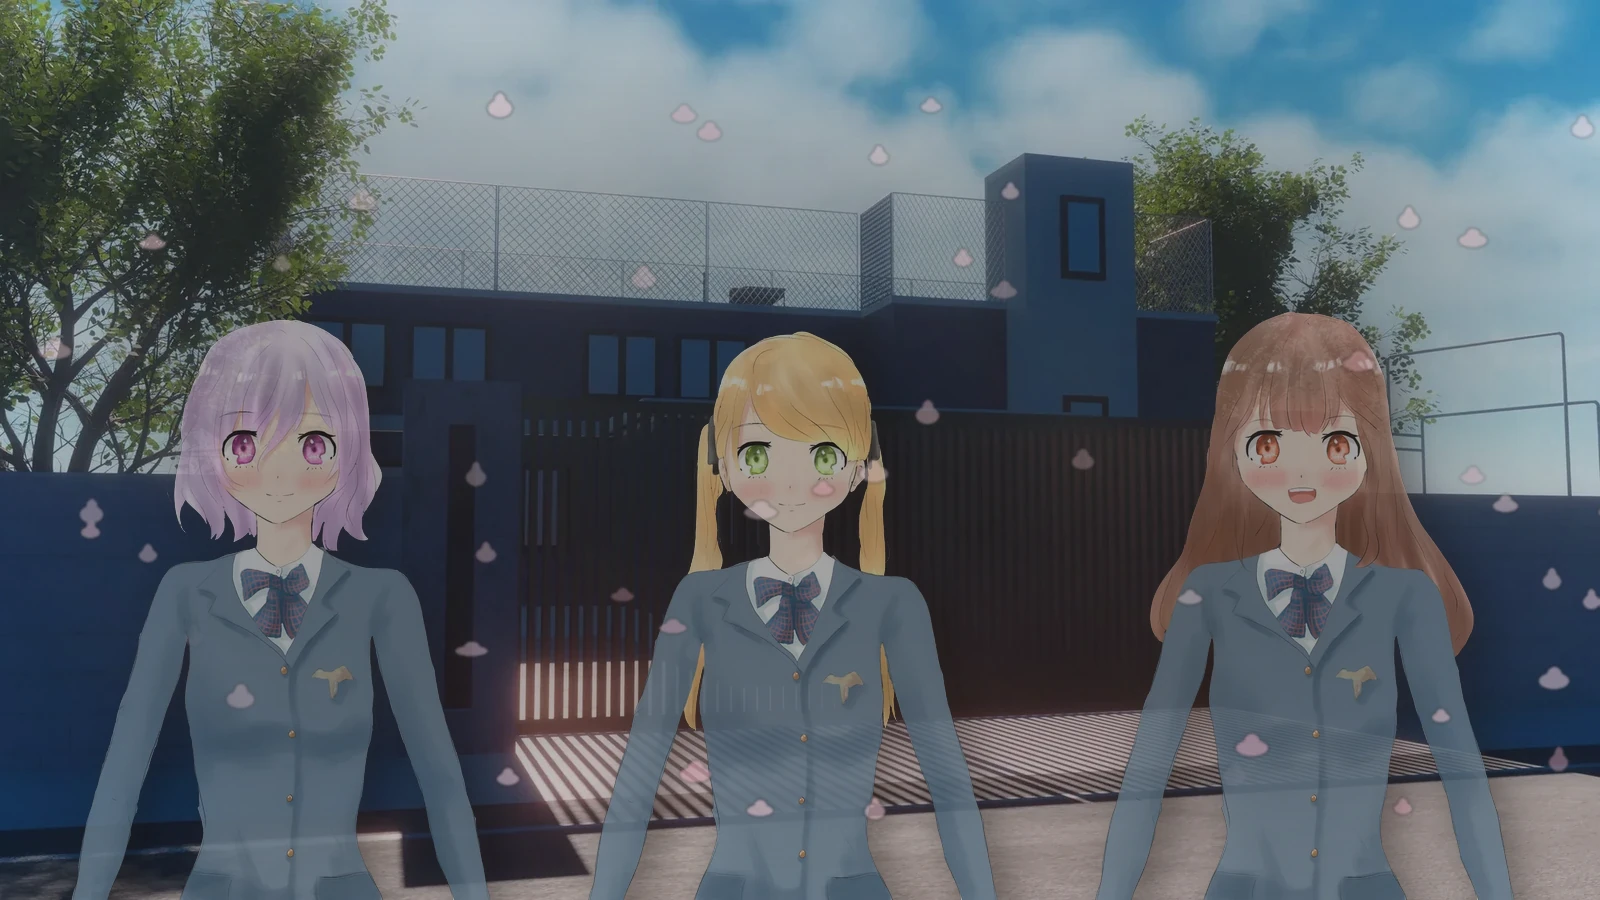
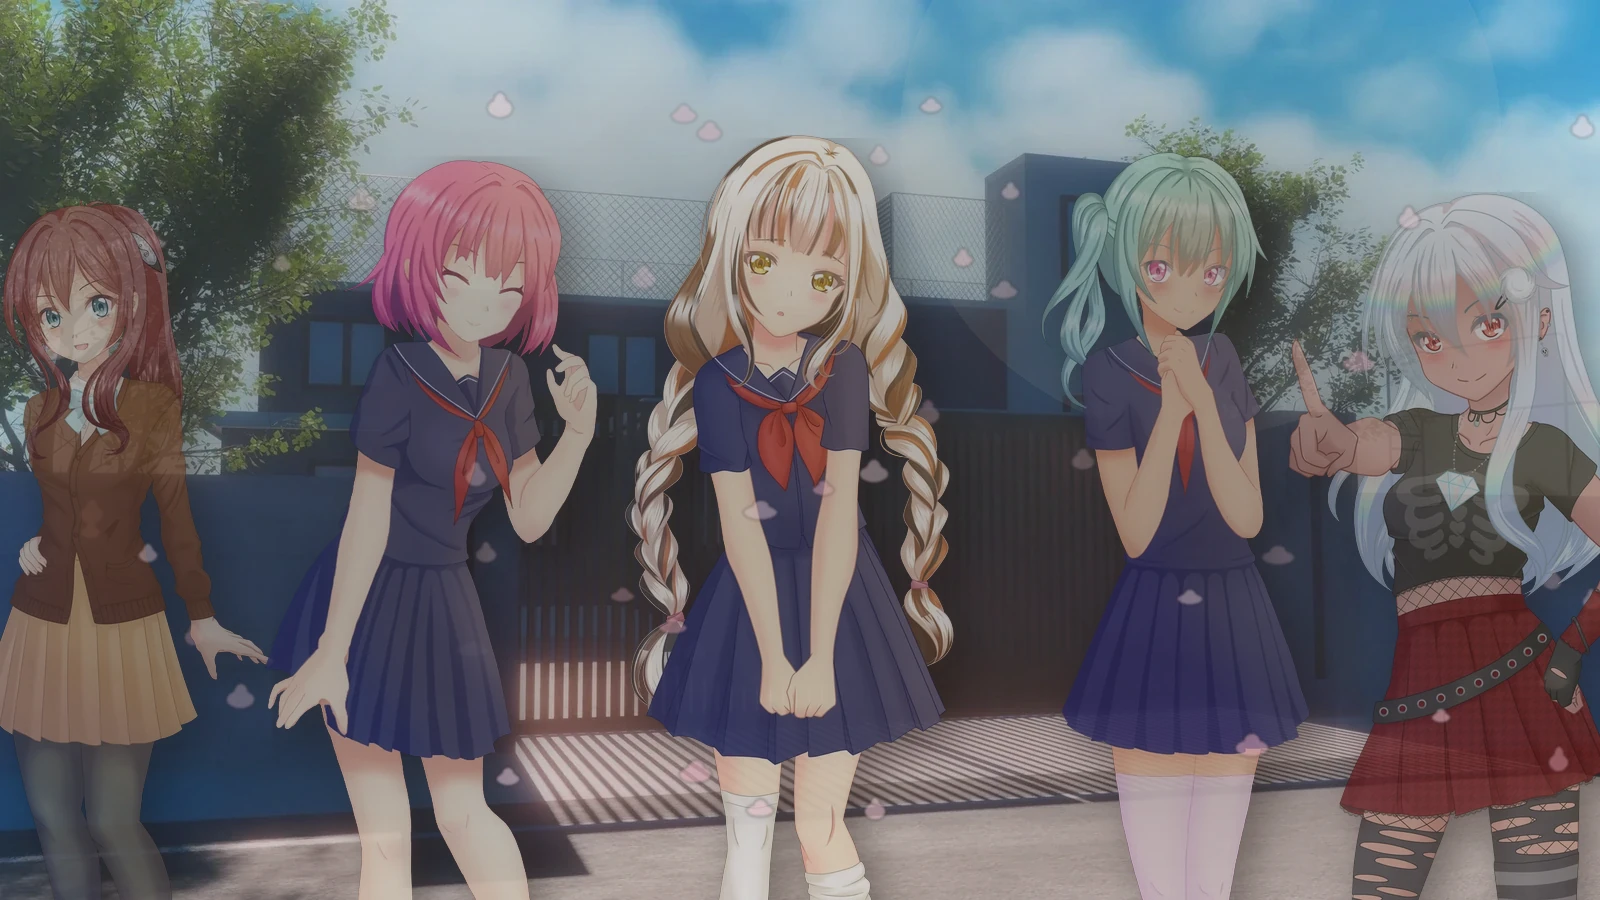
fix: title hero now features all 5 heroines
Made-with: Cursor

diff --git a/tools/generate_vn_assets.py b/tools/generate_vn_assets.py
@@ -547,9 +547,11 @@ def generate_cg() -> None:
 
 def generate_title_hero() -> None:
     image = Image.open(BACKGROUND_ROOT / 'school_gate' / 'day.webp').convert('RGBA')
-    image = add_character(image, {'id': 'nene', 'expression': 'gentle_smile', 'x': 0.18, 'scale': 0.84, 'alpha': 0.9, 'glow': '#f5bfd4'})
-    image = add_character(image, {'id': 'ayase', 'expression': 'soft_smile', 'x': 0.5, 'scale': 0.82, 'alpha': 0.92, 'glow': '#ffbb7f'})
-    image = add_character(image, {'id': 'murasame', 'expression': 'genuine_smile', 'x': 0.82, 'scale': 0.84, 'alpha': 0.9, 'glow': '#f0b27a'})
+    image = add_character(image, {'id': 'kanna', 'expression': 'slight_smile', 'x': 0.08, 'scale': 0.78, 'alpha': 0.85, 'glow': '#a8c8e8'})
+    image = add_character(image, {'id': 'nene', 'expression': 'gentle_smile', 'x': 0.27, 'scale': 0.84, 'alpha': 0.92, 'glow': '#f5bfd4'})
+    image = add_character(image, {'id': 'ayase', 'expression': 'grin', 'x': 0.5, 'scale': 0.86, 'alpha': 0.95, 'glow': '#ffbb7f'})
+    image = add_character(image, {'id': 'yoshino', 'expression': 'slight_smile', 'x': 0.73, 'scale': 0.84, 'alpha': 0.92, 'glow': '#d4b8f0'})
+    image = add_character(image, {'id': 'murasame', 'expression': 'smirk', 'x': 0.92, 'scale': 0.80, 'alpha': 0.87, 'glow': '#f0a0a0'})
     for effect in ['petals', 'warm_bloom']:
         image = add_particles(image, effect, 'title_hero')
     save_webp(add_vignette(add_bloom(image, 10, 0.07), 0.14), UI_ROOT / 'title-hero.webp')
